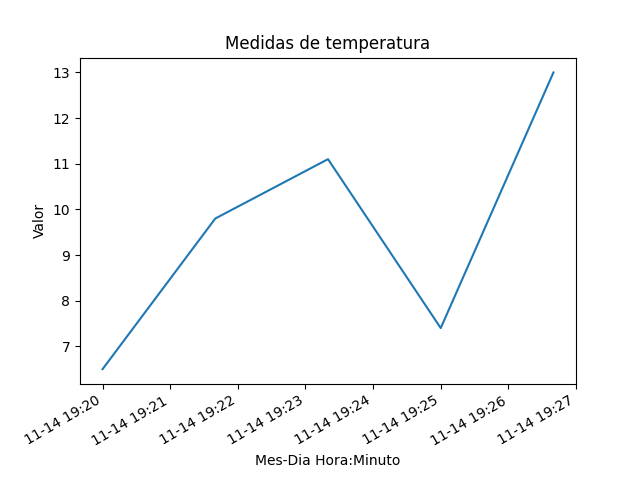
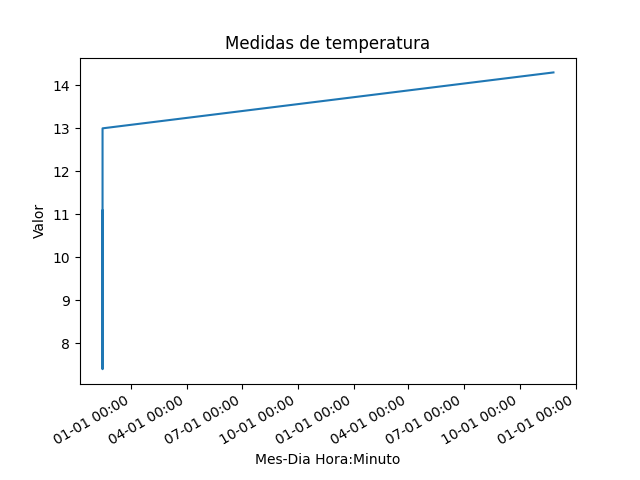
inicio da funçao de verificaçao de transmissao

diff --git a/templates/base.html b/templates/base.html
@@ -13,7 +13,7 @@
 <nav class="sidebar bg-dark w-25 ">
         <div class="d-flex flex-column align-items-start text-center">
             <h4 class="text-white p-3 border-bottom w-100">Sensores</h4>
-            <ul class="nav nav-pills flex-column mb-auto w-100">
+            <ul id="SensorList" class="nav nav-pills flex-column mb-auto w-100">
             </ul>
         </div>
     </nav>
@@ -42,6 +42,35 @@ function setCurrentId(id){
     document.getElementById("umiGraph").src = umiGraphURL+id+".png";
     document.getElementById("dustGraph").src = dustGraphURL+id+".png";
 
+}
+
+function getActiveSensors(){
+
+    fetch("http://localhost:8000/active").then(response => response.json()).then(
+        data => {
+        const sensorList = data.sensors;
+        console.log(sensorList);
+
+        const items = document.getElementById("SensorList").querySelectorAll("li");
+
+        console.log(items)
+
+        items.forEach(element => {
+            if(sensorList.includes(Number(element.id)) == false){
+                element.querySelector("button").classList.remove("btn-info");
+                element.querySelector("button").classList.add("btn-warning");
+            }
+            
+        });
+
+        }
+    )
+    
+
+}
+
+window.onload = function(){
+    getActiveSensors();
 }
 
 </script>

diff --git a/aux.py b/aux.py
@@ -66,21 +66,41 @@ def AddSensors(HTML_file):
     for i in range(0, len(SensorList)):
         li = soup.new_tag("li")
         li['class'] = "nav-item p-2 mb-1 m-auto"
-        list.insert_after(li)
+        list.append(li)
 
     list_pointer = 0
     li_tags = soup.find_all("li")
 
     for li in li_tags:
         button = soup.new_tag("button")
+        li["id"] = SensorList[list_pointer][0]
         button.string = f"{SensorList[list_pointer][0]} - {SensorList[list_pointer][1]}"
         button["onclick"] = f"setCurrentId('{SensorList[list_pointer][0]}')"
-        button["class"] = "btn btn-warning"
+        button["class"] = "btn btn-info"
         list_pointer += 1
 
         li.append(button)
 
     return str(soup)
+
+def GetActiveSensors():
+    try:
+        connection = sqlite3.connect(DB_file)
+        cursor = connection.cursor()
+
+        cursor.execute("SELECT DISTINCT(Sensor) from Registros where (strftime('%s','now') - TimeStamp)<1800;")
+        activeSensors = cursor.fetchall()
+        activeSensors = [item[0] for item in activeSensors]
+
+        connection.close()
+        return activeSensors
+
+    except:
+        connection.close()
+        print("an error has ocurred in the DB")
+
+def InsertTransmissionRow(SensorId){pass}
+
 
 def CreateRegistryRow(json_data):
     try:

diff --git a/server.py b/server.py
@@ -1,5 +1,5 @@
 from http.server import BaseHTTPRequestHandler, HTTPServer
-from aux import AddSensors, CreateRegistryRow
+from aux import AddSensors, CreateRegistryRow, GetActiveSensors
 import json
 
 class MyHandler(BaseHTTPRequestHandler):
@@ -28,6 +28,17 @@ class MyHandler(BaseHTTPRequestHandler):
                 img_data = f.read()
 
             self.wfile.write(img_data)
+
+        elif("active" in self.path):
+            activeSensors = GetActiveSensors()  
+            json_dict = json.dumps({'sensors':activeSensors}).encode("utf-8")
+
+            self.send_response(200)
+            self.send_header("Content-Type", "application/json")
+            self.send_header("Content-Length", str(len(json_dict)))
+            self.end_headers()
+
+            self.wfile.write(json_dict)
 
         else:
             self.send_response(404)

diff --git a/makeSampleDB.py b/makeSampleDB.py
@@ -14,7 +14,7 @@ data = [
     (10.2, 1, 1700000000, 1),
     (12.7, 1, 1700000100, 1),
     (8.9, 1, 1700000200, 1),
-    (14.3, 1, 1700000300, 1),
+    (14.3, 1, 1764099784, 1),
     (6.5, 1, 1700000400, 1),
     (9.8, 1, 1700000500, 1),
     (11.1, 1, 1700000600, 1),
@@ -107,7 +107,7 @@ data = [
     (16.7, 3, 1700007700, 3),
     (12.2, 3, 1700007800, 3),
     (14.8, 3, 1700007900, 3),
-    (9.6, 3, 1700008000, 3),
+    (9.6, 3, 1764099784, 3),
 
 ]
 
